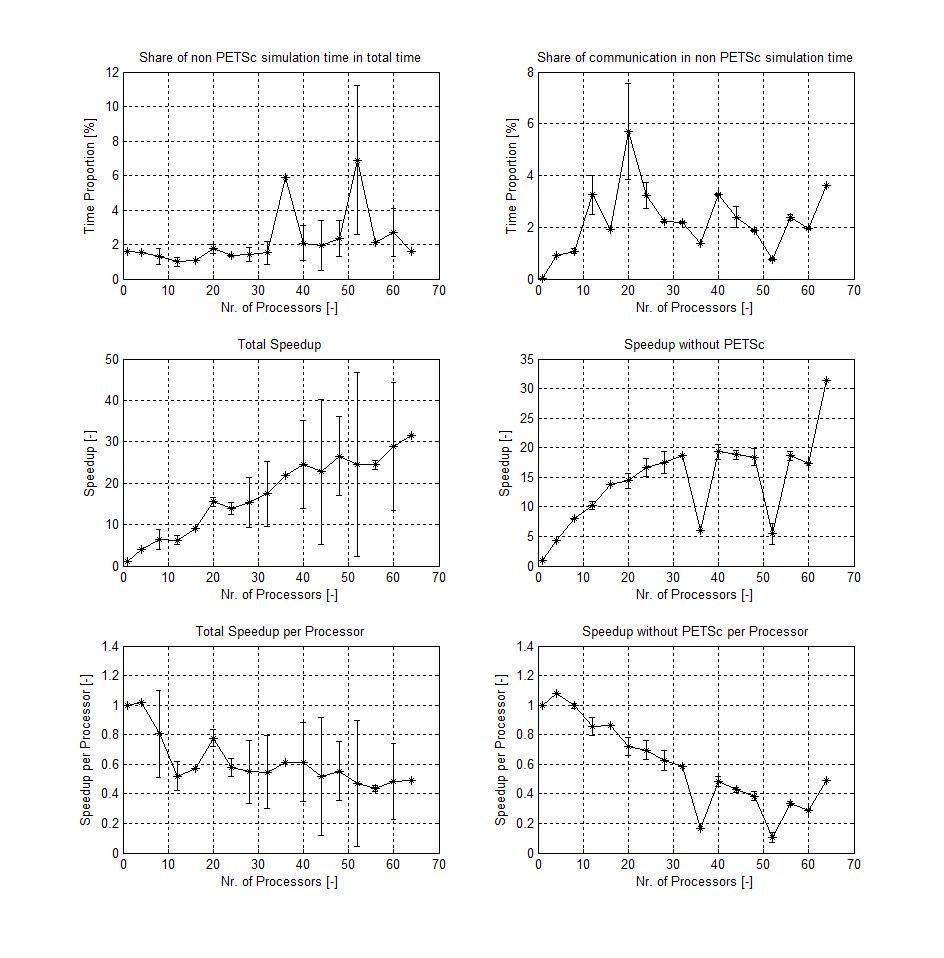
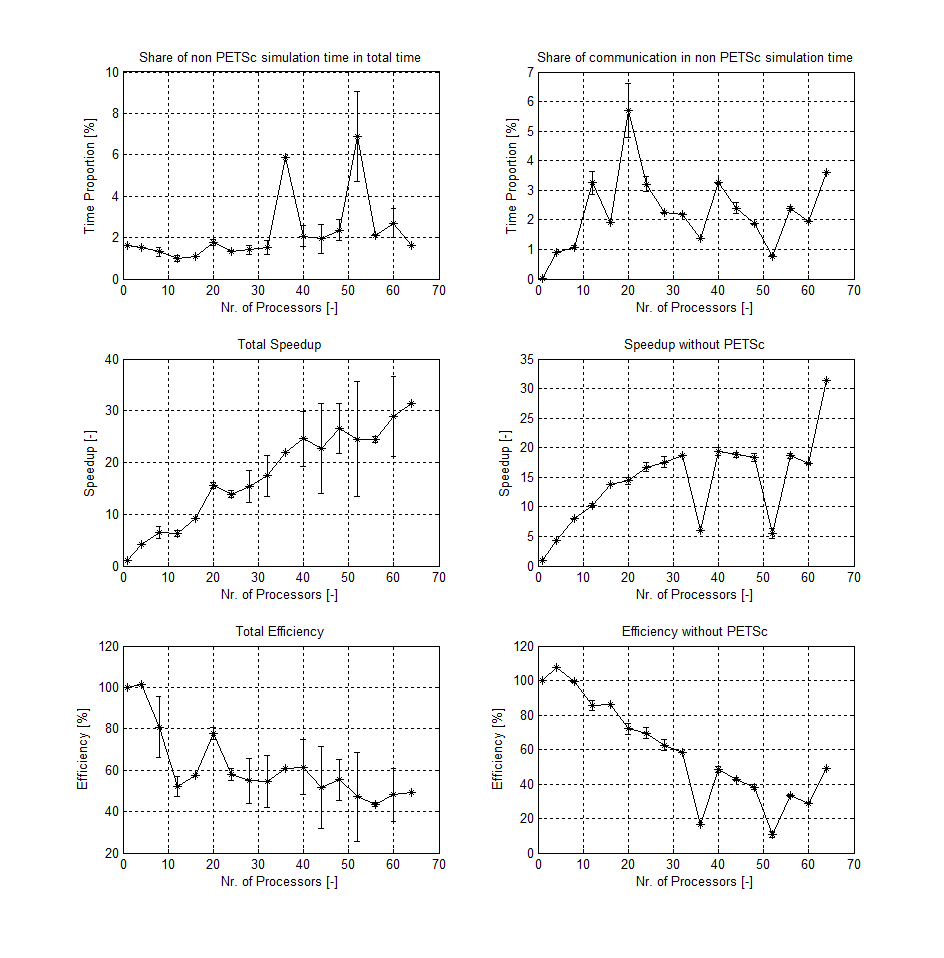
Analyze scaling experiments

diff --git a/reports/sheet-2/hpc-turb.tex b/reports/sheet-2/hpc-turb.tex
@@ -48,7 +48,7 @@ be reused for different quantities, data types and ghost layer widths.
 \begin{figure}[h]
   \centering
   \includegraphics[width=\textwidth]{border-exchange}
-  \caption{Two Dimensional Border Exchange\footnote[1]{\emph{http://parlab.eecs.berkeley.edu/wiki/\_media/patterns/ghostcell.pdf}}}
+  \caption{Two Dimensional Border Exchange}
   \label{fig:border-exchange}
 \end{figure}
 
@@ -78,20 +78,26 @@ of the performance loss that can result when a job does not fit the used
 nodes. Since we have limited influence on the performance of the PETSc solver
 itself we have also plotted the speedup of everything \emph{except} PETSc. This
 scales nicely as well but has two notable dips at 36 and 52 nodes. These result
-from the fact
+from the fact 36 is split into $9$ times $4$ and 52 into $13$ times $4$
+processes along the X and Y axis, which stretch the cells and lead to a worse
+ratio of volume to surface area.
 
-In the resulting speed up curve a large loss of speed up can be observed
-between jobs with 32 and 36 processes, which can be attributed to the "start" of
-using a new node but without using it to it's to its full potential.\ref{fig:}.
-
-When scaling a channel configuration in a weak manner, the time proved to be
-relatively constant. The trend represents an effective weak scalability.
+Figure \ref{fig:scaling-channel-weak} shows the analysis of a weak scaling
+experiment with a channel scenario. The total speedup graph shows that we have
+scaled the work per process linearly.
 
 \begin{figure}[h]
   \centering
   \includegraphics[width=\textwidth]{scaling/channel-strong}
-  \caption{}
+  \caption{\emph{Strong} scaling experiment with a channel scenario}
   \label{fig:scaling-channel-strong}
+\end{figure}
+
+\begin{figure}[h]
+  \centering
+  \includegraphics[width=\textwidth]{scaling/channel-weak}
+  \caption{\emph{Weak} scaling experiment with a channel scenario}
+  \label{fig:scaling-channel-weak}
 \end{figure}
 
 \section{Navier-Stokes}
